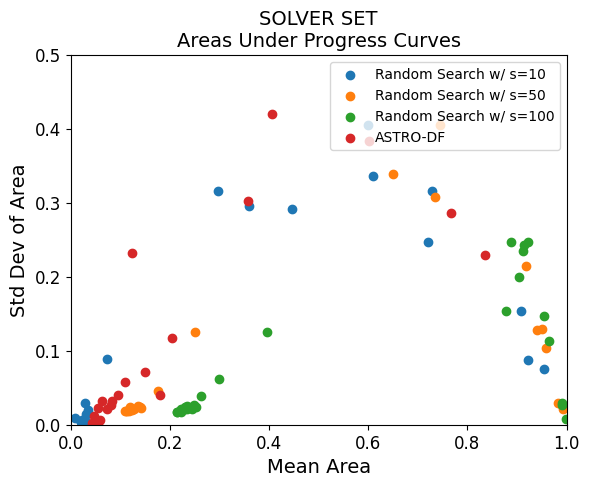
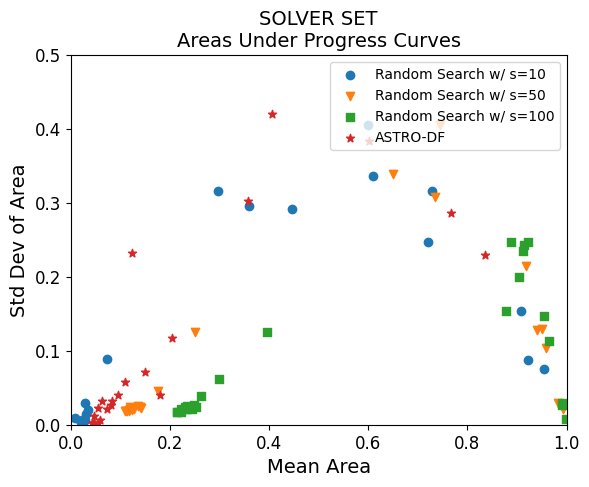
reformat plots
Produce all-in-one progress curve plots. Change marker types in area scatterplot.

diff --git a/simopt/run_experiments.py b/simopt/run_experiments.py
@@ -125,6 +125,12 @@ n_problems = len(experiments[0])
 # plot_progress_curves([experiments[0][0], experiments[3][0]], plot_type="all", all_in_one=True)
 
 # # All progress curves for one experiment.
+# plot_progress_curves([experiments[solver_idx][0] for solver_idx in range(n_solvers)], plot_type="all", all_in_one=True)
+
+# # All progress curves for one experiment.
+# plot_progress_curves([experiments[solver_idx][22] for solver_idx in range(n_solvers)], plot_type="all", all_in_one=True)
+
+# # All progress curves for one experiment.
 # plot_progress_curves([experiments[0][22], experiments[3][22]], plot_type="all", all_in_one=True)
 
 # # Mean progress curves from all solvers on one problem.
@@ -204,25 +210,25 @@ n_problems = len(experiments[0])
 #                           beta=0.5
 #                           )
 
-# Plot difference of cdf 0.1-solvability profiles of all solvers on all problems.
-# Reference solver = ASTRO-DF.
-plot_solvability_profiles(experiments=experiments,
-                          plot_type="diff_cdf_solvability",
-                          all_in_one=True,
-                          plot_CIs=True,
-                          print_max_hw=False,
-                          solve_tol=0.1,
-                          ref_solver="ASTRO-DF"
-                          )
+# # Plot difference of cdf 0.1-solvability profiles of all solvers on all problems.
+# # Reference solver = ASTRO-DF.
+# plot_solvability_profiles(experiments=experiments,
+#                           plot_type="diff_cdf_solvability",
+#                           all_in_one=True,
+#                           plot_CIs=True,
+#                           print_max_hw=False,
+#                           solve_tol=0.1,
+#                           ref_solver="ASTRO-DF"
+#                           )
 
-# Plot difference of 0.5-quantile 0.1-solvability profiles of all solvers on all problems.
-# Reference solver = ASTRO-DF.
-plot_solvability_profiles(experiments=experiments,
-                          plot_type="diff_quantile_solvability",
-                          all_in_one=True,
-                          plot_CIs=True,
-                          print_max_hw=False,
-                          solve_tol=0.1,
-                          beta=0.5,
-                          ref_solver="ASTRO-DF"
-                          )
+# # Plot difference of 0.5-quantile 0.1-solvability profiles of all solvers on all problems.
+# # Reference solver = ASTRO-DF.
+# plot_solvability_profiles(experiments=experiments,
+#                           plot_type="diff_quantile_solvability",
+#                           all_in_one=True,
+#                           plot_CIs=True,
+#                           print_max_hw=False,
+#                           solve_tol=0.1,
+#                           beta=0.5,
+#                           ref_solver="ASTRO-DF"
+#                           )

diff --git a/simopt/wrapper_base.py b/simopt/wrapper_base.py
@@ -1436,6 +1436,7 @@ def plot_area_scatterplots(experiments, all_in_one=True, plot_CIs=True, print_ma
     n_solvers = len(experiments)
     n_problems = len(experiments[0])
     if all_in_one:
+        marker_list = ["o", "v", "s", "*", "P", "X", "D", "V", ">", "<"]
         setup_plot(plot_type="area",
                    solver_name="SOLVER SET",
                    problem_name="PROBLEM SET"
@@ -1449,8 +1450,7 @@ def plot_area_scatterplots(experiments, all_in_one=True, plot_CIs=True, print_ma
             for problem_idx in range(n_problems):
                 experiment = experiments[solver_idx][problem_idx]
                 color_str = "C" + str(solver_idx)
-                # TO DO: ADD MARKER STYLES
-                # marker_str = 
+                marker_str = marker_list[solver_idx%len(marker_list)]  # Cycle through list of marker types.
                 # Plot mean and standard deviation of area under progress curve.
                 areas = [curve.compute_area_under_curve() for curve in experiment.progress_curves]
                 mean_estimator = np.mean(areas)
@@ -1478,11 +1478,11 @@ def plot_area_scatterplots(experiments, all_in_one=True, plot_CIs=True, print_ma
                                           xerr=x_err,
                                           yerr=y_err,
                                           color=color_str,
-                                          marker="o",
+                                          marker=marker_str,
                                           elinewidth=1
                                           )
                 else:
-                    handle = plt.scatter(x=mean_estimator, y=std_dev_estimator, color=color_str, marker="o")
+                    handle = plt.scatter(x=mean_estimator, y=std_dev_estimator, color=color_str, marker=marker_str)
             solver_curve_handles.append(handle)
         plt.legend(handles=solver_curve_handles, labels=solver_names, loc="upper right")
         save_plot(solver_name="SOLVER SET",
